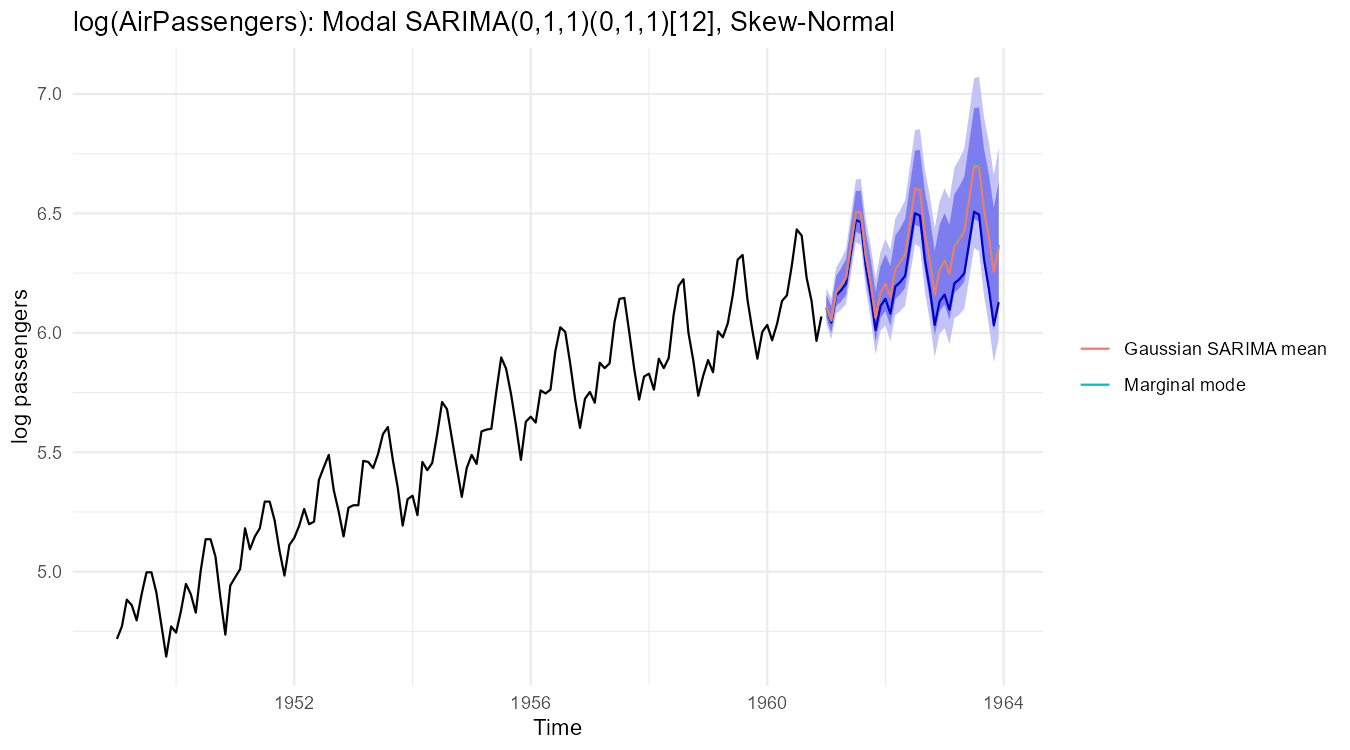
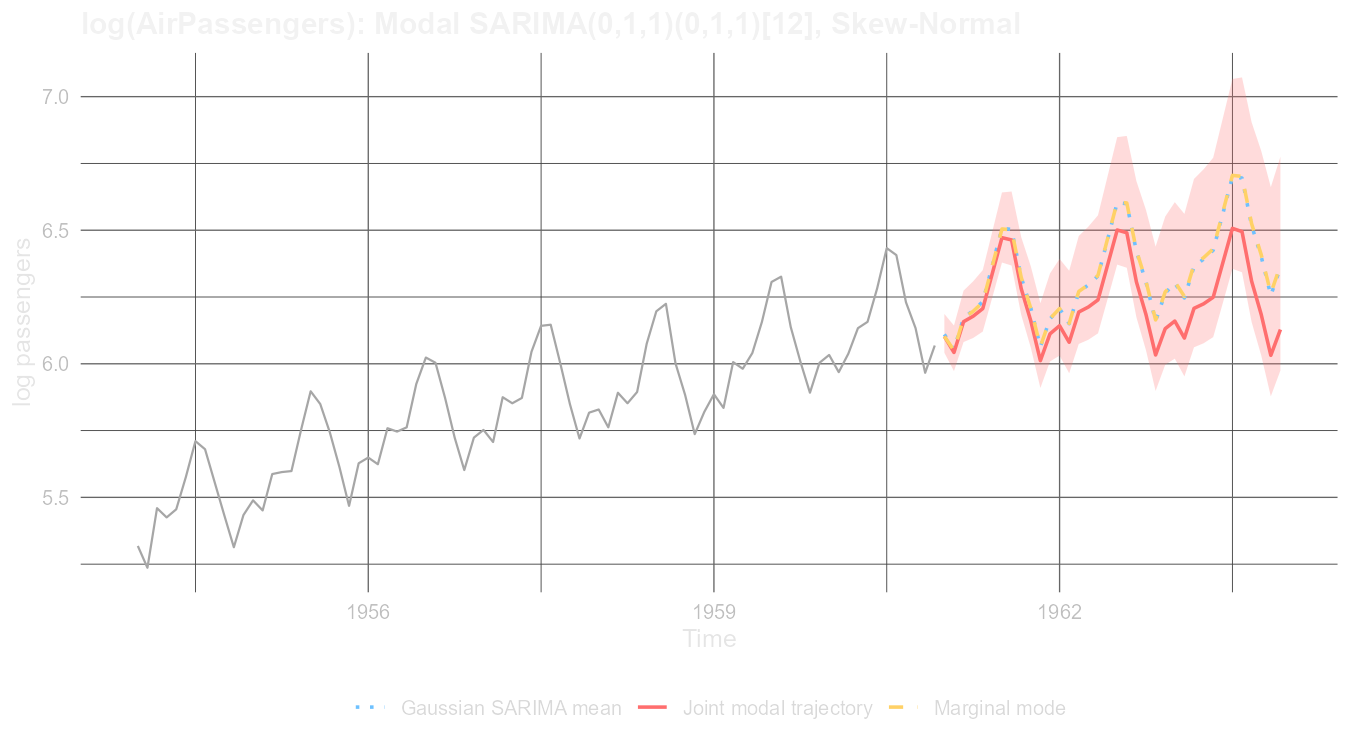
Replace stale white-background lynx forecast figure in README
Remove man/figures/forecast_lynx_premium.png (a 0.1.0-era non-seasonal
Modal ARIMA(3,0,4) forecast with a white background, generated before the
Student-t/Laplace gradient fixes) and reference the new dark-theme,
transparent-background Modal SARIMA(4,0,2)(1,0,0)[10] lynx forecast
instead. Also refresh air_forecast.png with the dark-theme version so it
reads correctly against a dark background.

diff --git a/README.md b/README.md
@@ -78,10 +78,10 @@ Below is an evaluation of the Skew-Normal, Skewed Student-t, and Skewed Laplace 
 The `diagnostics()` function provides additional analysis including ACF/PACF of Randomized Quantile Residuals (RQR), and the `summary()` method handles analytical Fisher Information matrix standard errors.
 
 ### Out-of-Sample Forecasting
-Comparison between traditional Gaussian ARIMA (Mean) and the Modal ARIMA (Mode) utilizing different members of the SKD family. The package computes both **Asymptotic** prediction intervals for standard series, and **Parametric Bootstrap** simulated prediction intervals for greater coverage in small sample settings.
+Comparison between the traditional Gaussian ARIMA mean, the Modal SARIMA joint modal trajectory, and its marginal mode. The package computes both **Asymptotic** prediction intervals (here, exact, from the convolution of the fitted SKD densities) and **Parametric Bootstrap** simulated prediction intervals for greater coverage in small-sample settings. A seasonal component for the ten-year lynx cycle (Modal SARIMA$(4,0,2)(1,0,0)_{10}$) improves on the non-seasonal fit; see the [Modal SARIMA paper](https://github.com/chedgala/modal-sarima) for the full analysis.
 
 <p align="center">
-  <img src="man/figures/forecast_lynx_premium.png" width="80%">
+  <img src="man/figures/lynx_forecast_sarima.png" width="80%">
 </p>
 
 ## Quick Start Tutorial
